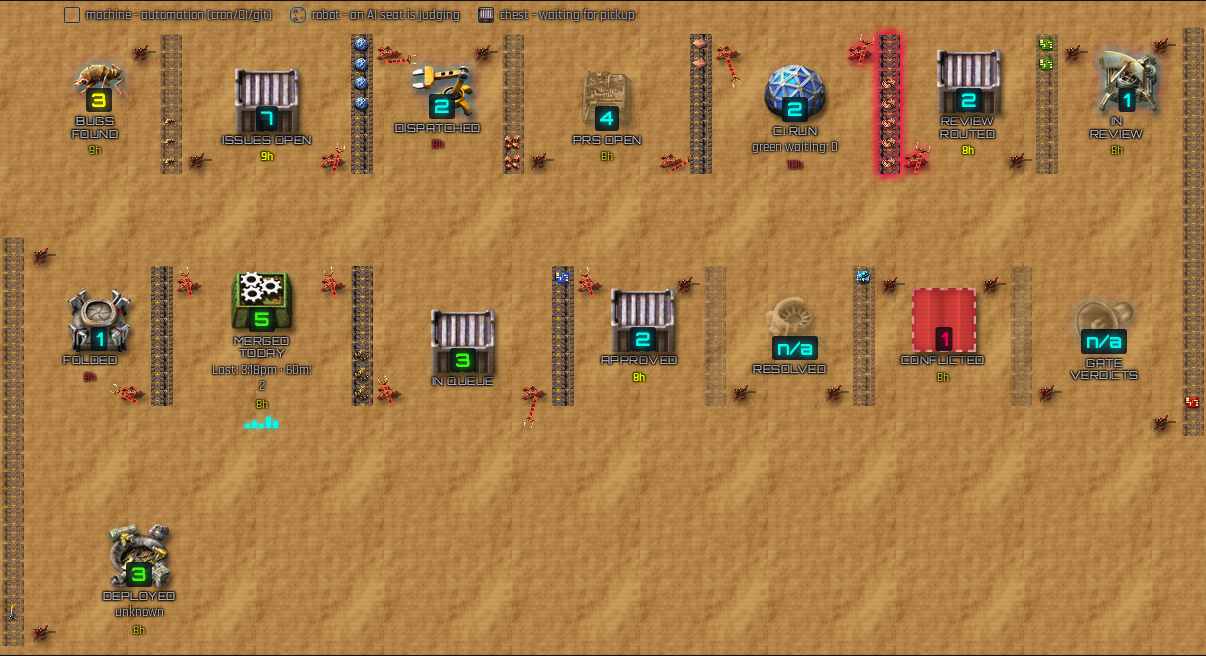
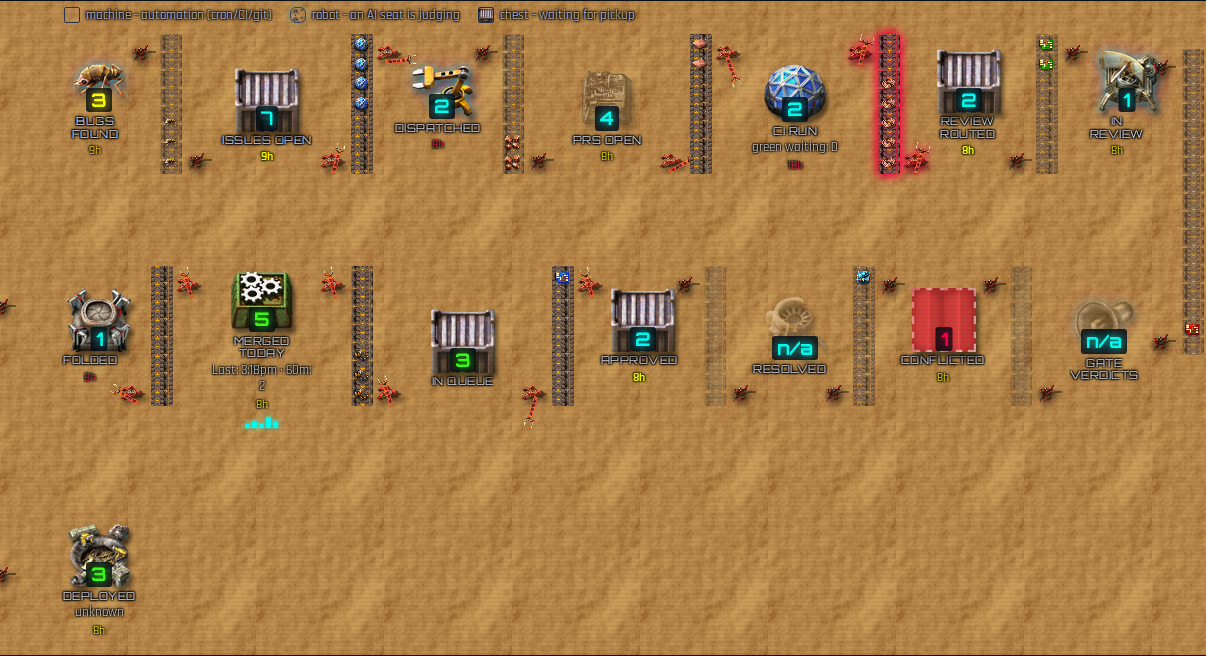
fix(monitor): row-end inserters level with the machines they reach; DEPLOYED under FOLDED
Ben: the first inserter on row 2 was too low, the last on row 2 too high,
the first on row 3 too low. Cause: the row-end belt spanned the stage
BOXES (whose outer edges include captions, sub-lines and sparklines), so
an inserter pinned to the belt's end landed at a box edge rather than at
the machine. The belt now spans from the from-stage's sprite top to the
to-stage's sprite bottom, so its top/bottom inserters sit level with the
two machines; the horizontal offset still uses the box edges so the
column stays clear of the caption. positionShipElbows also lines
DEPLOYED's sprite up directly under FOLDED's (row 3's box is wider than
row 2's last, so box-aligning left left the machine sitting to the right).

Test now measures against .ship-sprite-wrap and asserts each inserter's
centre falls within its machine's vertical extent.

Claude-Session: https://claude.ai/code/session_015a21LH9eqkn4oZydkWAQ3i

Changed region(s): [[0.0, 0.3659, 0.1534, 1.0], [0.9511, 0.0305, 1.0, 0.6707]]

diff --git a/queue_router.py b/queue_router.py
@@ -9033,18 +9033,38 @@ function positionShipElbows() {
         const from = document.querySelector(fromSel);
         const to = document.querySelector(toSel);
         if (!elbow || !from || !to) return;
-        const f = from.getBoundingClientRect();
-        const t = to.getBoundingClientRect();
+        // Ben: the inserters at the belt's top and bottom must sit level
+        // with the two machines (sprites) they reach into, not with the
+        // stage boxes' outer edges (which include captions, sparklines and
+        // sub-lines) - so the belt spans sprite-top to sprite-bottom.
+        const fs = from.querySelector('.ship-sprite-wrap') || from;
+        const ts = to.querySelector('.ship-sprite-wrap') || to;
+        const f = fs.getBoundingClientRect();
+        const t = ts.getBoundingClientRect();
+        const fb = from.getBoundingClientRect();
+        const tb = to.getBoundingClientRect();
         const top = Math.min(f.top, t.top);
         const bottom = Math.max(f.bottom, t.bottom);
         elbow.style.top = (top - wrapRect.top) + 'px';
         elbow.style.height = (bottom - top) + 'px';
-        const edge = side === 'right' ? Math.max(f.right, t.right) + 4 : Math.min(f.left, t.left) - 4 - elbow.offsetWidth;
+        const edge = side === 'right' ? Math.max(fb.right, tb.right) + 4 : Math.min(fb.left, tb.left) - 4 - elbow.offsetWidth;
         elbow.style.left = (edge - wrapRect.left) + 'px';
     };
     // Row 1 ends on the right at 'in review'; row 2 (row-reverse) starts on
     // the right at 'gate verdicts', directly under it.
     place('ship-elbow-1', '#ship-flow .ship-row-1 [data-square="in review"]', '#ship-flow .ship-row-2 [data-square="gate verdicts"]', 'right');
+    // Ben: DEPLOYED sits directly under FOLDED - line the two sprites'
+    // centres up (row 3's box is wider than row 2's last, so left-aligning
+    // the boxes leaves the machine itself sitting off to the right).
+    const folded = document.querySelector('#ship-flow .ship-row-2 [data-square="folded"] .ship-sprite-wrap');
+    const deployedStage = document.querySelector('#ship-flow .ship-row-3 [data-square="last deploy"]');
+    const deployed = deployedStage && deployedStage.querySelector('.ship-sprite-wrap');
+    if (folded && deployed) {
+        deployedStage.style.marginLeft = '';
+        const fc = folded.getBoundingClientRect(); const dc = deployed.getBoundingClientRect();
+        const delta = (fc.left + fc.width / 2) - (dc.left + dc.width / 2);
+        if (Math.abs(delta) > 1) deployedStage.style.marginLeft = delta + 'px';
+    }
     // Row 2 ends on the left at 'folded'; row 3 starts on the left at
     // 'last deploy' (DEPLOYED).
     place('ship-elbow-2', '#ship-flow .ship-row-2 [data-square="folded"]', '#ship-flow .ship-row-3 [data-square="last deploy"]', 'left');

diff --git a/tests/dashboard-truth/factorio-belts-evidence.py b/tests/dashboard-truth/factorio-belts-evidence.py
@@ -264,11 +264,20 @@ with sync_playwright() as p:
     # to-stage's bottom, not a short stub floating in the gap between rows.
     for elbow_id, from_sq, to_sq in (('ship-elbow-1', 'in review', 'gate verdicts'), ('ship-elbow-2', 'folded', 'last deploy')):
         elbow_box = page.locator('#' + elbow_id).bounding_box()
-        from_box = page.locator('[data-square="' + from_sq + '"]').bounding_box()
-        to_box = page.locator('[data-square="' + to_sq + '"]').bounding_box()
+        # Ben: the top/bottom inserters must sit level with the two MACHINES
+        # (sprites), not the stage boxes' outer edges - captions and
+        # sub-lines below a sprite were dragging the unloading inserter too
+        # low and a tall neighbour was pushing the loading one too high.
+        from_box = page.locator('[data-square="' + from_sq + '"] .ship-sprite-wrap').bounding_box()
+        to_box = page.locator('[data-square="' + to_sq + '"] .ship-sprite-wrap').bounding_box()
         assert elbow_box and from_box and to_box, (elbow_id, from_sq, to_sq)
-        assert abs(elbow_box['y'] - from_box['y']) < 6, (elbow_id, 'top not at from-stage top', elbow_box, from_box)
-        assert abs((elbow_box['y'] + elbow_box['height']) - (to_box['y'] + to_box['height'])) < 6, (elbow_id, 'bottom not at to-stage bottom', elbow_box, to_box)
+        assert abs(elbow_box['y'] - from_box['y']) < 6, (elbow_id, 'top not at from-sprite top', elbow_box, from_box)
+        assert abs((elbow_box['y'] + elbow_box['height']) - (to_box['y'] + to_box['height'])) < 6, (elbow_id, 'bottom not at to-sprite bottom', elbow_box, to_box)
+        top_ins = page.locator('#' + elbow_id + ' .ship-inserter').nth(0).bounding_box()
+        bot_ins = page.locator('#' + elbow_id + ' .ship-inserter').nth(1).bounding_box()
+        assert from_box['y'] <= top_ins['y'] + top_ins['height'] / 2 <= from_box['y'] + from_box['height'], (elbow_id, 'loading inserter not level with from-sprite', top_ins, from_box)
+        assert to_box['y'] <= bot_ins['y'] + bot_ins['height'] / 2 <= to_box['y'] + to_box['height'], (elbow_id, 'unloading inserter not level with to-sprite', bot_ins, to_box)
+        from_box = page.locator('[data-square="' + from_sq + '"]').bounding_box()
         # Row 3's lone stage sits under row 2's last stage: the belt must be
         # a straight column beside both, never overlapping either.
         assert elbow_box['x'] >= from_box['x'] + from_box['width'] or elbow_box['x'] + elbow_box['width'] <= from_box['x'], (elbow_id, 'overlaps from-stage', elbow_box, from_box)
